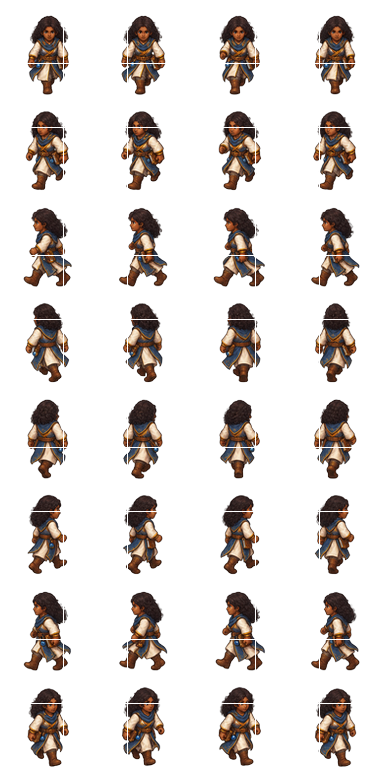
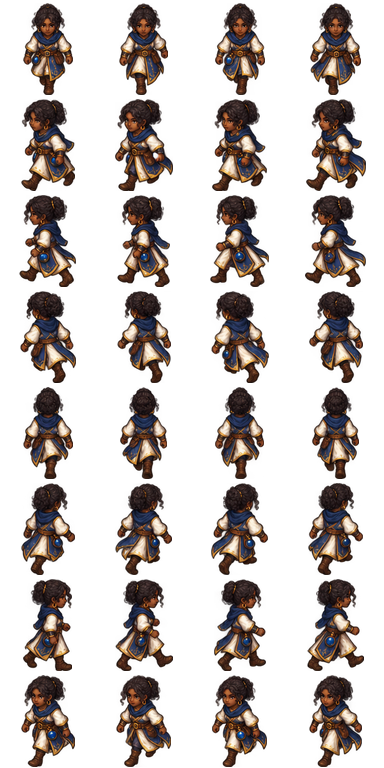
commit

diff --git a/src/scenes/AetherCityScene.ts b/src/scenes/AetherCityScene.ts
@@ -505,28 +505,58 @@ export class AetherCityScene extends Phaser.Scene {
   createCornerTowers() {
     const key='iso_city_corner_tower';
     const source=this.textures.get(key).getSourceImage();
-    const scale=228/source.width;
+    // Round94 hotfix: usa a torre final aprovada como peça real de junção.
+    // Cada canto é deslocado para FORA do perímetro para que os muros sumam
+    // dentro da torre, como no canto aprovado pelo usuário. A colisão lógica
+    // permanece ancorada na quina original, evitando abrir frestas jogáveis.
+    const scale=250/source.width;
     const originY=1417/source.height;
+    const topBottomOffset=.58;
+    const sideOffset=.38;
     const corners=[
-      {id:'north-west',u:AetherCityScene.CITY_MIN,v:AetherCityScene.CITY_MIN,label:'torre de arqueiros noroeste'},
-      {id:'north-east',u:AetherCityScene.CITY_MAX,v:AetherCityScene.CITY_MIN,label:'torre de arqueiros nordeste'},
-      {id:'south-west',u:AetherCityScene.CITY_MIN,v:AetherCityScene.CITY_MAX,label:'torre de arqueiros sudoeste'},
-      {id:'south-east',u:AetherCityScene.CITY_MAX,v:AetherCityScene.CITY_MAX,label:'torre de arqueiros sudeste'}
+      {
+        id:'north-west',label:'torre de arqueiros norte',
+        anchorU:AetherCityScene.CITY_MIN,anchorV:AetherCityScene.CITY_MIN,
+        spriteU:AetherCityScene.CITY_MIN-topBottomOffset,
+        spriteV:AetherCityScene.CITY_MIN-topBottomOffset,
+        flipX:false
+      },
+      {
+        id:'north-east',label:'torre de arqueiros leste',
+        anchorU:AetherCityScene.CITY_MAX,anchorV:AetherCityScene.CITY_MIN,
+        spriteU:AetherCityScene.CITY_MAX+sideOffset,
+        spriteV:AetherCityScene.CITY_MIN-sideOffset,
+        flipX:false
+      },
+      {
+        id:'south-west',label:'torre de arqueiros oeste',
+        anchorU:AetherCityScene.CITY_MIN,anchorV:AetherCityScene.CITY_MAX,
+        spriteU:AetherCityScene.CITY_MIN-sideOffset,
+        spriteV:AetherCityScene.CITY_MAX+sideOffset,
+        flipX:true
+      },
+      {
+        id:'south-east',label:'torre de arqueiros sul',
+        anchorU:AetherCityScene.CITY_MAX,anchorV:AetherCityScene.CITY_MAX,
+        spriteU:AetherCityScene.CITY_MAX+topBottomOffset,
+        spriteV:AetherCityScene.CITY_MAX+topBottomOffset,
+        flipX:true
+      }
     ];
     this.cornerTowerSprites=[];
     for(const tower of corners){
       const sprite=new IsoSprite({
-        scene:this,isoX:tower.u,isoY:tower.v,isoZ:0,
+        scene:this,isoX:tower.spriteU,isoY:tower.spriteV,isoZ:0,
         texture:key,tileWidth:AetherCityScene.TILE_WIDTH,tileHeight:AetherCityScene.TILE_HEIGHT,
         screenOriginX:AetherCityScene.ORIGIN_X,screenOriginY:AetherCityScene.ORIGIN_Y,
         depthBase:AetherCityScene.ISO_DEPTH_BASE,depthOffset:.32
       });
-      sprite.setOrigin(.5,originY).setScale(scale);
+      sprite.setOrigin(.5,originY).setScale(scale).setFlipX(!!tower.flipX);
       sprite.updateIsoPosition();
       sprite.name=tower.id;
       this.wallSprites.push(sprite);
       this.cornerTowerSprites.push(sprite);
-      const footprint={u1:tower.u-.72,v1:tower.v-.72,u2:tower.u+.72,v2:tower.v+.72,corner:.22};
+      const footprint={u1:tower.anchorU-.78,v1:tower.anchorV-.78,u2:tower.anchorU+.78,v2:tower.anchorV+.78,corner:.24};
       this.addIsoGroundContact(footprint,.12);
       this.registerSolidMask(sprite,key,{label:tower.label,mode:'isoRect',isoRect:footprint});
     }

diff --git a/src/prologue/OldAetherPrologue.ts b/src/prologue/OldAetherPrologue.ts
@@ -215,25 +215,12 @@ export class OldAetherPrologue{
   }
 
   createRoadSetDressing(){
-    const add=(key,u,v,height,offset=.02,flipX=false)=>{
-      if(!this.scene.textures.exists(key))return null;
-      const p=this.scene.project(u,v),source=this.scene.textures.get(key).getSourceImage();
-      return this.scene.add.image(p.x,p.y,key).setOrigin(.5,1).setScale(height/source.height).setFlipX(flipX).setDepth(this.scene.depthAt(u,v,offset));
-    };
-    const a=this.anchors.attackedWagon;
-    this.wagon=add('abandoned_wagon_v3',a.u,a.v,142,.08,true);
-    if(this.wagon){
-      this.scene.registerOccluder?.(this.wagon,'abandoned_wagon_v3',this.wagon.y-7,{behindMargin:8});
-      this.scene.registerSolidMask?.(this.wagon,'abandoned_wagon_v3',{
-        label:'Carroça abandonada',mode:'footprint',footprintWidth:128,footprintHeight:27,footprintYOffset:-12,
-        originX:.5,originY:1,active:()=>this.wagon?.active&&this.wagon.visible
-      });
-    }
-    this.cartDecor=[
-      add('street_crates',a.u-.62,a.v+.35,43,.11),
-      add('street_logs',a.u+.82,a.v+.62,37,.105,true),
-      add('outskirts_fence_segment',a.u-1.02,a.v+.98,45,-.02,true)
-    ].filter(Boolean);
+    // Round94 v14.19: remove do mapa da Estrada Velha o conjunto visual da
+    // carroça atacada que estava aparecendo como acampamento/entulho: carroça,
+    // caixas, pilha de madeira e cerca. O marco narrativo/âncora do prólogo é
+    // preservado para não alterar a máquina de estados nesta etapa.
+    this.wagon=null;
+    this.cartDecor=[];
   }
 
   createCollectible(){
